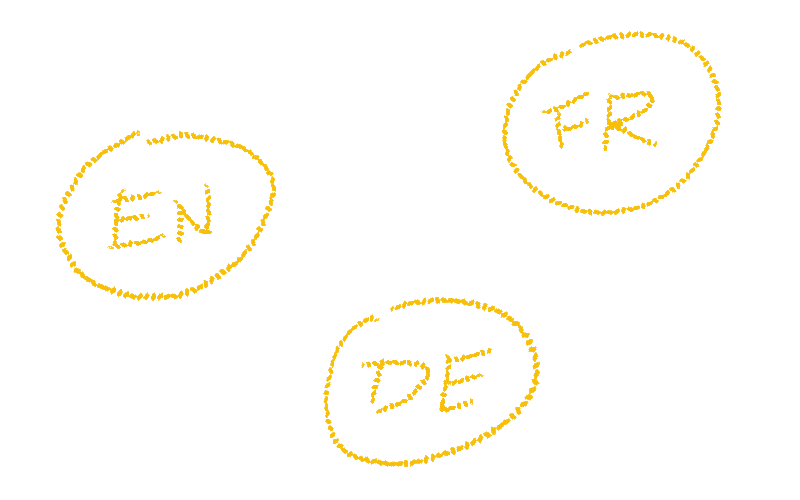
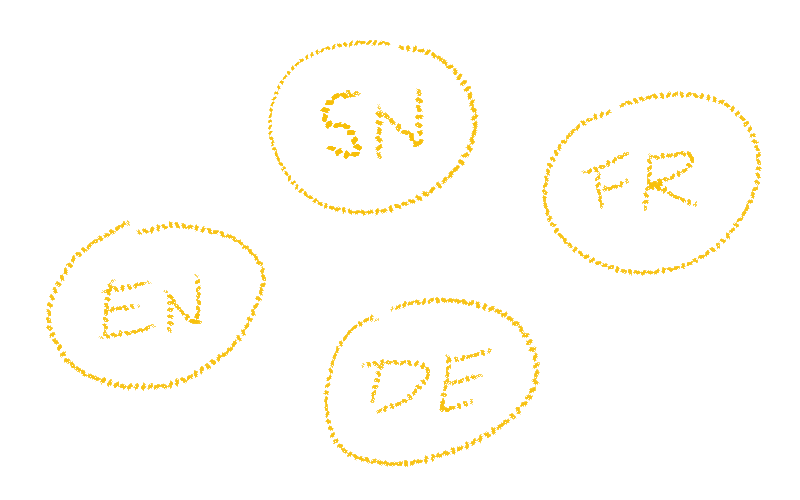
update index

diff --git a/homepage/theme/templates/index.html b/homepage/theme/templates/index.html
@@ -516,14 +516,14 @@
       <div class="w-100 flex flex-wrap justify-center">
 
         <div class="w-100 w-50-l hx-localize dib cclr-bg-white-fade">
-          <div class="wx24 center">
+          <div class="wx24 center pr4-l">
             <p class="f3 lh-solid ma0 mt5 mb4">
               <em>
                 Localize
               </em>
             </p>
             <p class="ma0 mb2">
-              <i>Offen is available in</i> English, German <i>and</i> French.
+              <i>Offen is available in</i> English, German, French <i>and</i> Spanish.
             </p>
             <p class="ma0 mb2">
               <i>Our</i> consent banner and the Auditorium <i>for operators as well as users can be displayed</i> in the respective locale.
